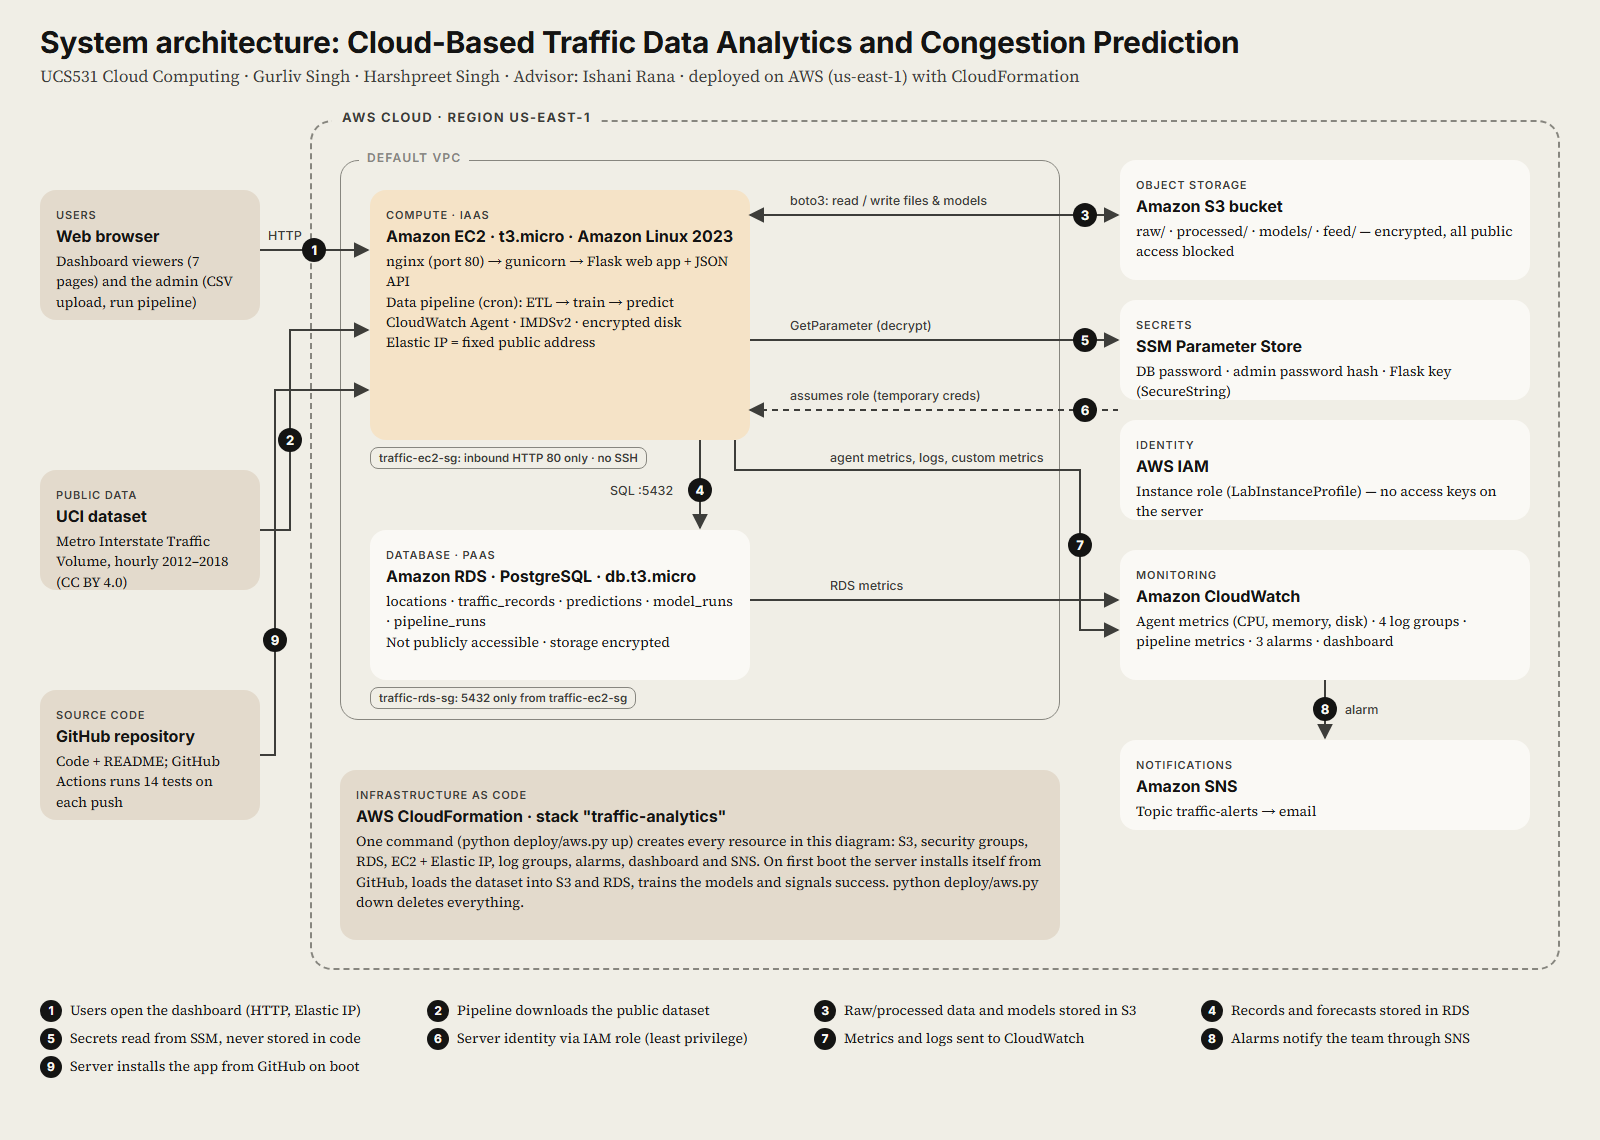
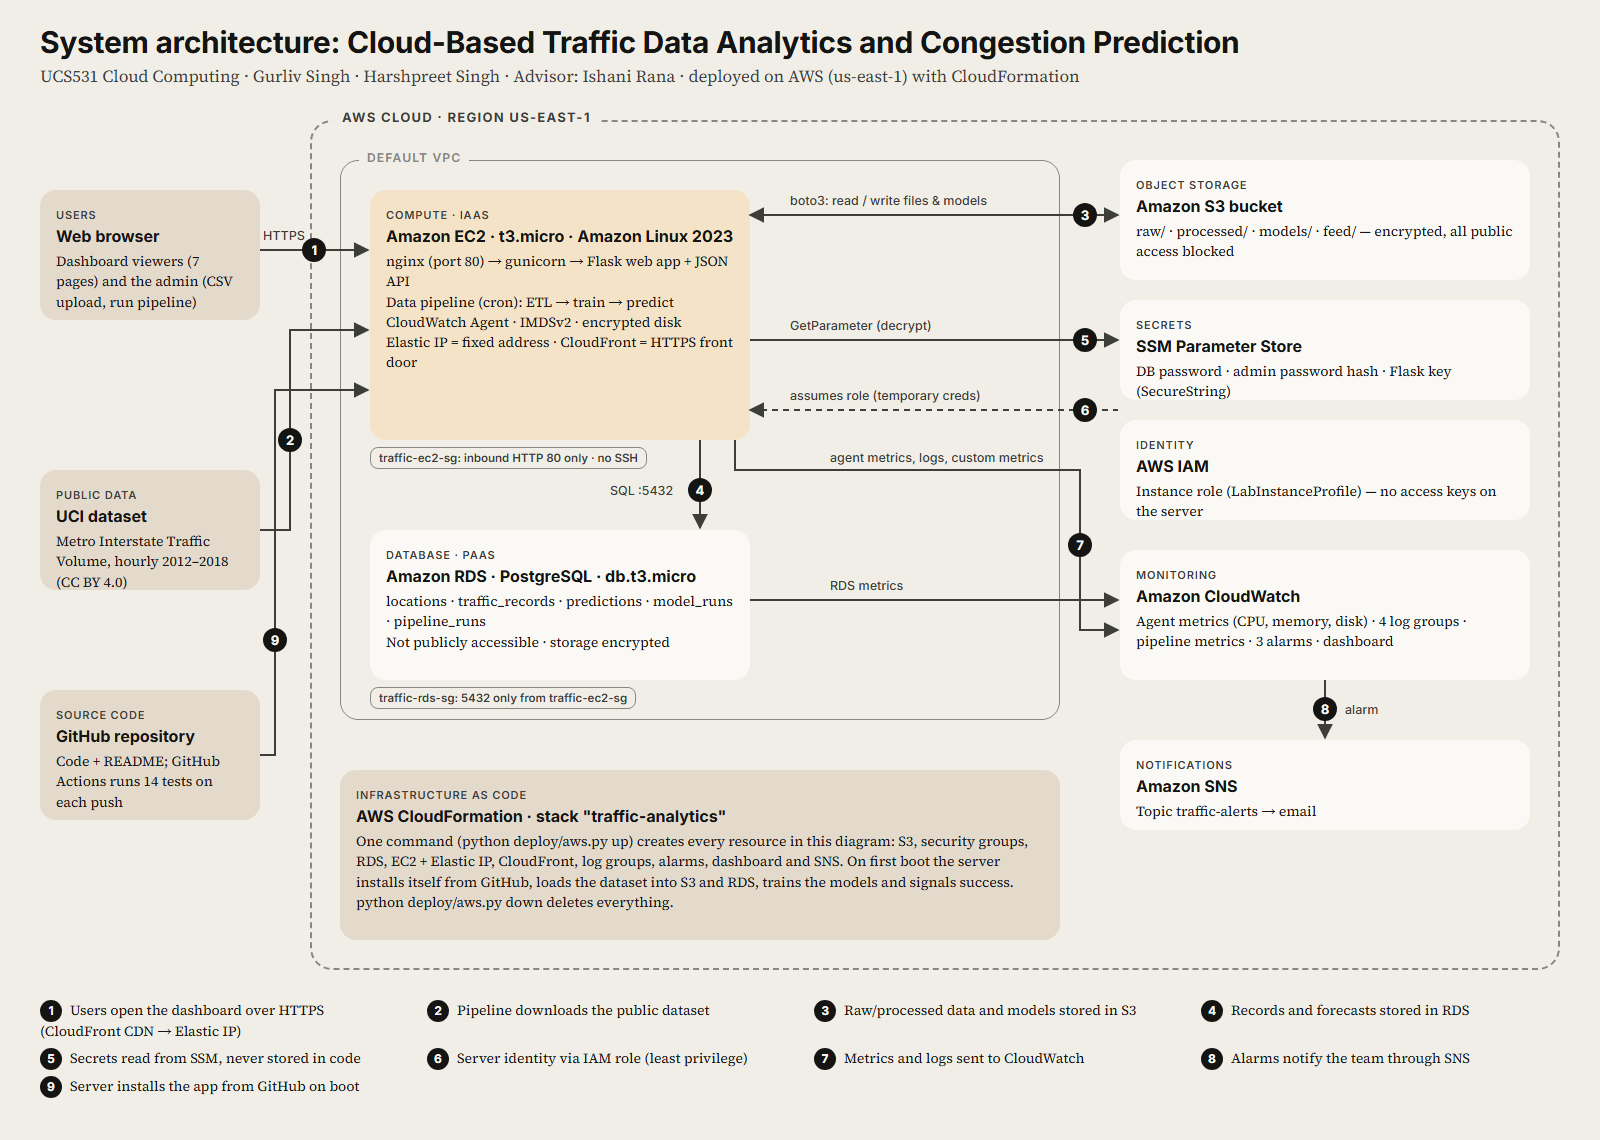
Add HTTPS via CloudFront in front of EC2

diff --git a/docs/architecture/architecture.html b/docs/architecture/architecture.html
@@ -47,7 +47,7 @@
   nginx (port 80) → gunicorn → Flask web app + JSON API<br>
   Data pipeline (cron): ETL → train → predict<br>
   CloudWatch Agent · IMDSv2 · encrypted disk<br>
-  Elastic IP = fixed public address
+  Elastic IP = fixed address · CloudFront = HTTPS front door
 </div>
 <div class="abs sg" style="left:370px;top:447px">traffic-ec2-sg: inbound HTTP 80 only · no SSH</div>
 
@@ -65,7 +65,7 @@
 
 <div class="abs box ext" style="left:340px;top:770px;width:720px;height:170px">
   <span class="tag">Infrastructure as code</span><b>AWS CloudFormation · stack "traffic-analytics"</b>
-  One command (python deploy/aws.py up) creates every resource in this diagram: S3, security groups, RDS, EC2 + Elastic IP,
+  One command (python deploy/aws.py up) creates every resource in this diagram: S3, security groups, RDS, EC2 + Elastic IP, CloudFront,
   log groups, alarms, dashboard and SNS. On first boot the server installs itself from GitHub, loads the dataset into S3 and RDS,
   trains the models and signals success. python deploy/aws.py down deletes everything.
 </div>
@@ -88,7 +88,7 @@
   </g>
   <g>
     <circle cx="314" cy="250" r="12" fill="#141413"/><text class="n" x="314" y="255" text-anchor="middle">1</text>
-    <text class="al" x="268" y="240">HTTP</text>
+    <text class="al" x="263" y="240">HTTPS</text>
     <circle cx="290" cy="440" r="12" fill="#141413"/><text class="n" x="290" y="445" text-anchor="middle">2</text>
     <circle cx="1085" cy="215" r="12" fill="#141413"/><text class="n" x="1085" y="220" text-anchor="middle">3</text>
     <text class="al" x="790" y="205">boto3: read / write files &amp; models</text>
@@ -108,7 +108,7 @@
 </svg>
 
 <div class="abs legend">
-  <div><span>1</span>Users open the dashboard (HTTP, Elastic IP)</div>
+  <div><span>1</span>Users open the dashboard over HTTPS (CloudFront CDN → Elastic IP)</div>
   <div><span>2</span>Pipeline downloads the public dataset</div>
   <div><span>3</span>Raw/processed data and models stored in S3</div>
   <div><span>4</span>Records and forecasts stored in RDS</div>

diff --git a/docs/PROJECT_GUIDE.md b/docs/PROJECT_GUIDE.md
@@ -179,6 +179,7 @@ In the Learner Lab this comes from free credits, not from you.
 | **SSM Parameter Store** | Secure configuration storage | Encrypted (SecureString) database password, admin password and its hash, Flask session key | Keeps secrets out of code, Git and config files. Free, unlike Secrets Manager |
 | **Amazon CloudWatch** | Monitoring | Agent metrics (CPU, memory, disk), 4 log groups, custom metrics from our pipeline, 3 alarms, 1 dashboard | Built in; no extra servers |
 | **Amazon SNS** | Notifications | Alarms publish to the `traffic-alerts` topic, which emails subscribers | The standard way for CloudWatch alarms to alert people |
+| **Amazon CloudFront** | Content delivery network (CDN) | Gives the dashboard an `https://…cloudfront.net` address with a free AWS certificate and forwards requests to EC2 (no caching, because the data is live) | Many browsers (e.g. Brave) refuse plain-HTTP sites. A custom domain + certificate on EC2 would need a paid domain |
 | **AWS CloudFormation** | Infrastructure as code | `deploy/cloudformation.yaml` defines every resource; `python deploy/aws.py up` creates them all | Repeatable, reviewable, one-command deploy and one-command delete |
 
 ---

diff --git a/README.md b/README.md
@@ -84,7 +84,8 @@ flowchart LR
     CW[CloudWatch<br/>metrics · logs · dashboard · alarms]
     SNS[SNS email alerts]
   end
-  B -->|HTTP :80| EC2
+  B -->|HTTPS| CF[CloudFront CDN<br/>free TLS certificate]
+  CF -->|HTTP :80| EC2
   ADM -->|upload| EC2
   EC2 <-->|boto3| S3
   EC2 -->|SQL :5432, security group to security group only| RDS
@@ -113,6 +114,7 @@ Cron runs steps 2 and 4 every hour, and steps 2–4 every night. A lock file pre
 | Security groups | Port 80 open to the web; RDS reachable **only** from the EC2 security group | Network isolation |
 | SSM Parameter Store | Encrypted secrets (SecureString) | Secrets management |
 | CloudWatch + SNS | Agent metrics, logs, custom pipeline metrics, dashboard, alarms, email alerts | Monitoring, observability |
+| CloudFront | HTTPS front door (free AWS certificate) in front of EC2, so every browser opens the dashboard | Content delivery network (CDN), TLS |
 
 ## Data and methodology
 
